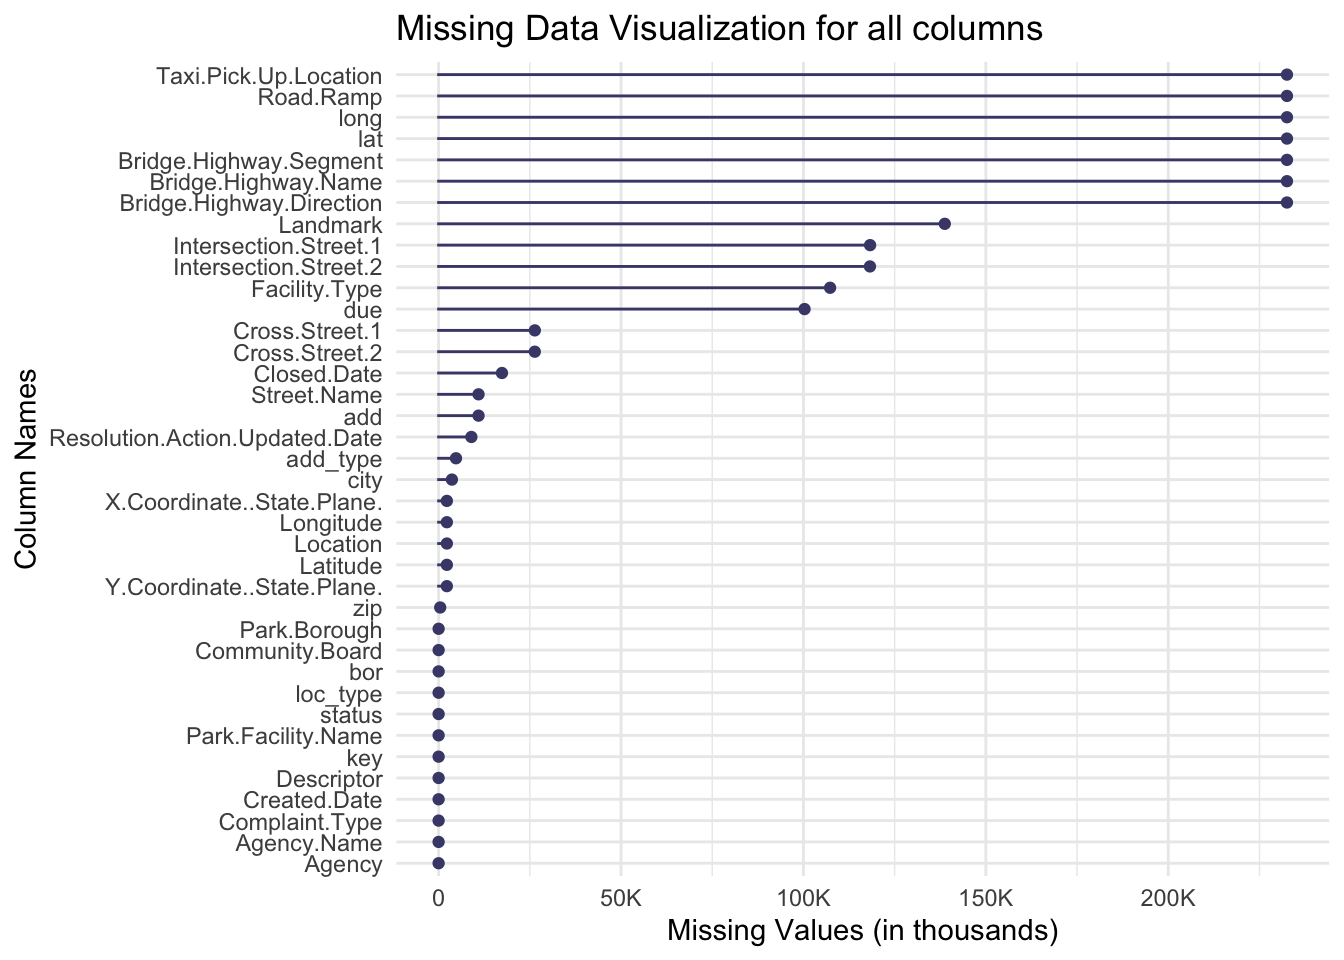
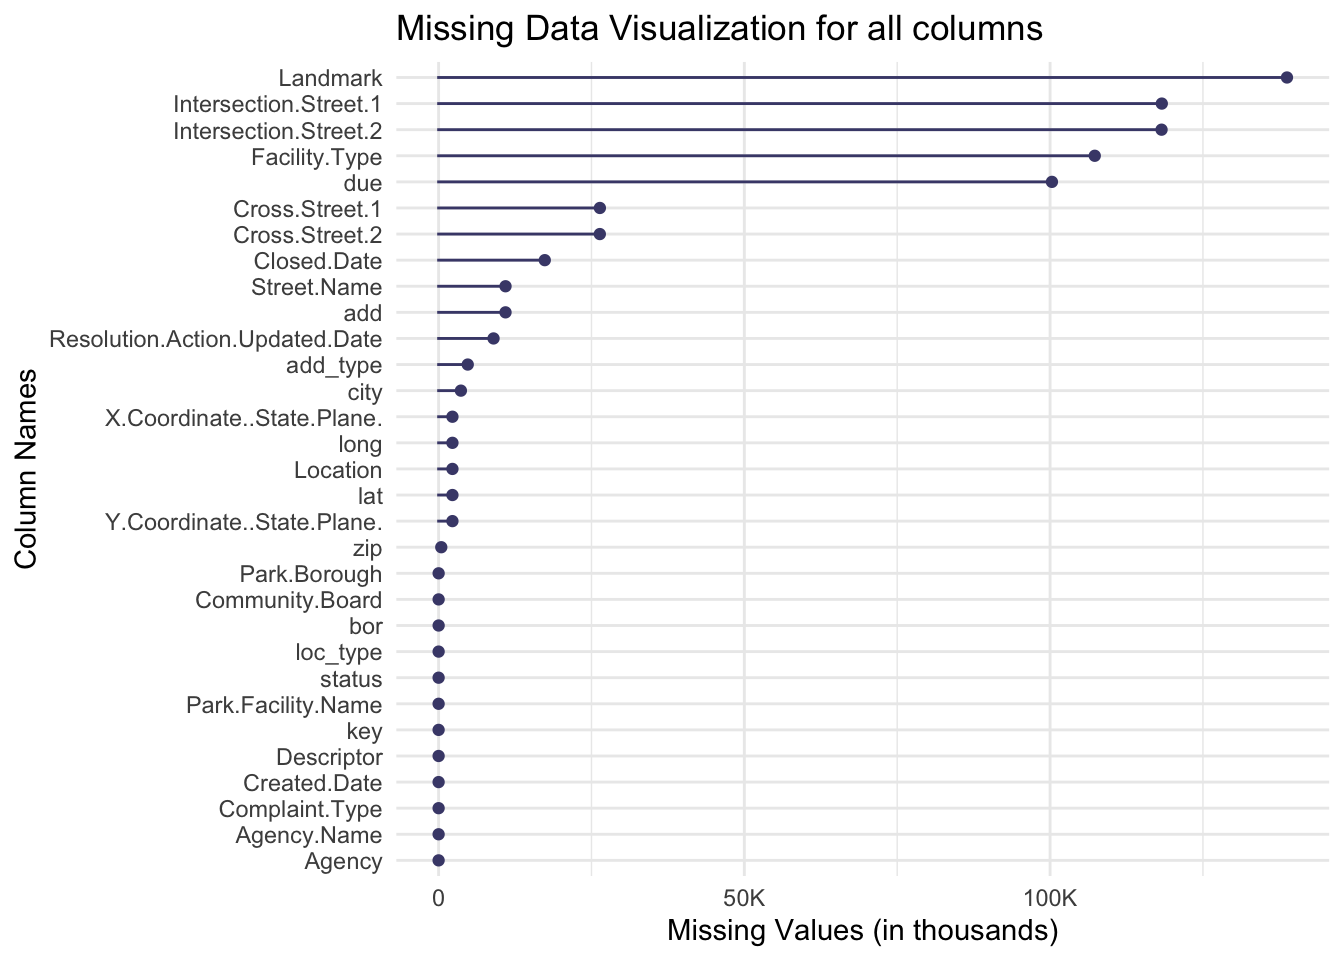
Committing to reflect changes in local render

Changed region(s): [[0.0312, 0.0625, 1.0, 0.9375]]

diff --git a/docs/data.html b/docs/data.html
@@ -351,20 +351,20 @@ pre > code.sourceCode > span > a:first-child::before { text-decoration: underlin
 <span id="cb1-51"><a href="#cb1-51" aria-hidden="true" tabindex="-1"></a><span class="fu">print</span>(missing_values)</span></code><button title="Copy to Clipboard" class="code-copy-button"><i class="bi"></i></button></pre></div>
 </details>
 <div class="cell-output cell-output-stdout">
-<pre><code># A tibble: 30 × 3
-   Feature                  count_missing percentage_missing
-   &lt;chr&gt;                            &lt;int&gt;              &lt;dbl&gt;
- 1 lat                             232536              100  
- 2 long                            232536              100  
- 3 Taxi.Pick.Up.Location           232536              100  
- 4 Bridge.Highway.Name             232536              100  
- 5 Bridge.Highway.Direction        232536              100  
- 6 Road.Ramp                       232536              100  
- 7 Bridge.Highway.Segment          232536              100  
- 8 Landmark                        138744               59.7
- 9 Intersection.Street.1           118273               50.9
-10 Intersection.Street.2           118233               50.8
-# ℹ 20 more rows</code></pre>
+<pre><code># A tibble: 23 × 3
+   Feature               count_missing percentage_missing
+   &lt;chr&gt;                         &lt;int&gt;              &lt;dbl&gt;
+ 1 Landmark                     138744              59.7 
+ 2 Intersection.Street.1        118273              50.9 
+ 3 Intersection.Street.2        118233              50.8 
+ 4 Facility.Type                107309              46.2 
+ 5 due                          100304              43.1 
+ 6 Cross.Street.1                26376              11.3 
+ 7 Cross.Street.2                26365              11.3 
+ 8 Closed.Date                   17364               7.47
+ 9 add                           10942               4.71
+10 Street.Name                   10943               4.71
+# ℹ 13 more rows</code></pre>
 </div>
 </div>
 <p><strong>We plot a chart which shows all columns and their missing values:</strong></p>
